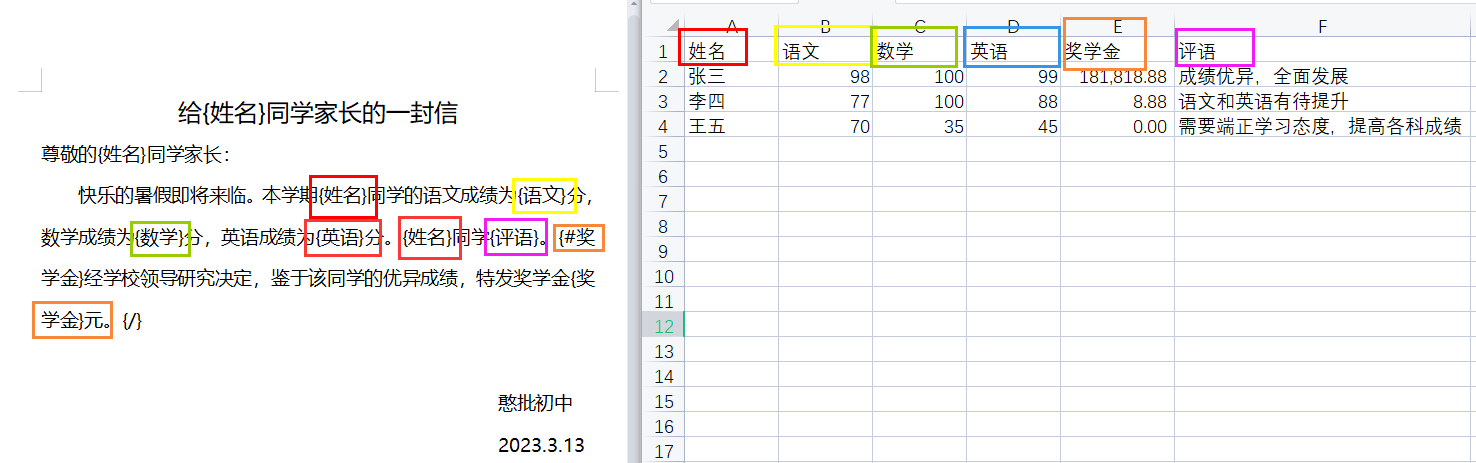
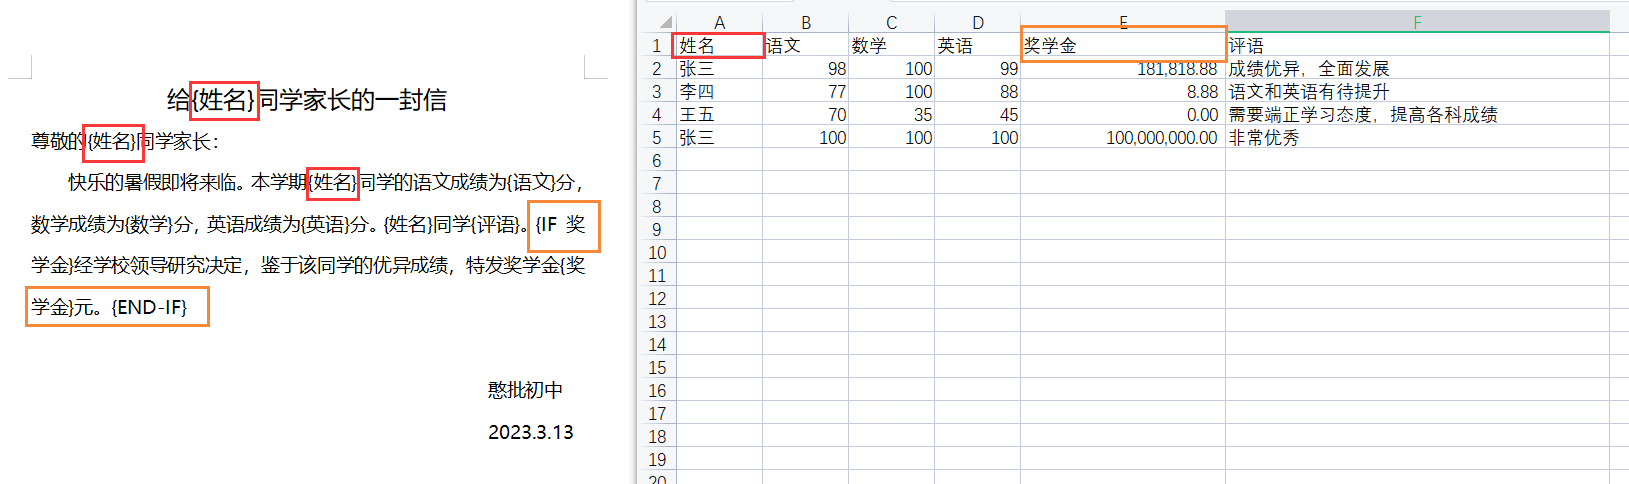
add

Changed region(s): [[0.0, 0.0, 1.0, 1.0], [0.2805, 0.7862, 0.3428, 0.8467]]

diff --git a/src/pages/file/merge/index.tsx b/src/pages/file/merge/index.tsx
@@ -1,50 +1,83 @@
 import "./index.scss";
 
 import { InboxOutlined } from "@ant-design/icons";
-import { Button, Card, Image, Input, Space, Upload } from "antd";
-import Templatemode from "docxtemplater";
+import {
+  Button,
+  Card,
+  Form,
+  Image,
+  Input,
+  message,
+  Modal,
+  Select,
+  Space,
+  Upload,
+} from "antd";
+import { createReport } from "docx-templates";
 import FileSaver from "file-saver";
 import JSZip from "jszip";
 import xlsx from "node-xlsx";
-import PizZip from "pizzip";
-import React, { useState } from "react";
+import React, { useEffect, useState } from "react";
 
 import mergeDemo from "@/assets/merge_demo.png";
-import { getFileType } from "@/tools";
+import { getFileType, RULES } from "@/tools";
+import { Rule } from "@/types";
+
+interface FormatRule extends Rule {
+  name: string;
+}
+
 function Merge() {
+  const [modalForm] = Form.useForm();
   const [word, setWord] = useState<ArrayBuffer>(new ArrayBuffer(0));
   const [excel, setExcel] = useState<any[]>([]);
   const [fileName, setFileName] = useState<string>("");
-
+  const [keys, setKeys] = useState<string[]>([]);
+  const [secureKeys, setSegueKeys] = useState<string[]>([]);
+  const [formatRule, setFormatRule] = useState<FormatRule[]>([]);
+  useEffect(() => {
+    const excelData = JSON.parse(
+      JSON.stringify(excel.length ? (excel[0].data as any) : [])
+    );
+    const keys: string[] = excelData.shift() || [];
+    setKeys(keys);
+  }, [excel]);
+  useEffect(() => {
+    setSegueKeys(keys.filter((k) => !formatRule.find((f) => f.name === k)));
+  }, [keys, formatRule]);
   function mergeFile() {
+    if (!excel.length || !word) return message.info("请先上传文件");
     const jsZip = new JSZip();
     const excelData = JSON.parse(JSON.stringify(excel[0].data || []));
     const keys: string[] = excelData.shift();
     const values: any[][] = excelData;
     const p: any[] = [];
     const nameMap: Record<string, number> = {};
+    const formatMap: Record<string, any> = {};
+    formatRule.forEach((f) => {
+      formatMap[f.name] = f.rule;
+    });
     values.forEach((v) => {
-      const zip = new PizZip(word);
-      const doc = new Templatemode(zip);
       const data: Record<string, any> = {};
       keys.forEach((k, index) => {
-        data[k] = v[index] || 0;
+        const val = v[index];
+        data[k] = formatMap[k] ? formatMap[k].rule(val) : val;
       });
-      doc.setData(data);
-      doc.render();
-      console.log(data);
+      const buf = createReport({
+        template: Buffer.from(word),
+        cmdDelimiter: ["{", "}"],
+        data,
+      });
       let name = fileName.replace(/{([\W\w]+)}/g, function (match, $1) {
         return data[$1];
       });
       if (nameMap[name] !== void 0) {
         nameMap[name]++;
         const [oName, fileType] = getFileType(name);
-        name = oName + `(${nameMap[name]})` + fileType;
+        name = `${oName}(${nameMap[name]})${fileType}`;
       } else {
         nameMap[name] = 0;
       }
-      console.log(nameMap);
-      const buf = doc.getZip()?.generate({ type: "blob" }) as Blob;
       p.push({ buf, name });
     });
     p.forEach((p) => {
@@ -56,6 +89,49 @@ function Merge() {
     jsZip.generateAsync({ type: "blob" }).then((content) => {
       // 生成二进制流
       FileSaver.saveAs(content, rename); // 利用file-saver保存文件  自定义文件名
+    });
+  }
+  function addRule() {
+    Modal.confirm({
+      icon: null,
+      title: "配置",
+      content: (
+        <Form form={modalForm}>
+          <Form.Item
+            label="标题"
+            name="name"
+            rules={[{ required: true, message: "请选择标题" }]}
+          >
+            <Select>
+              {secureKeys.map((s) => (
+                <Select.Option key={s}>{s}</Select.Option>
+              ))}
+            </Select>
+          </Form.Item>
+          <Form.Item
+            label="格式化配置"
+            name="ruleName"
+            rules={[{ required: true, message: "请选择格式化内容" }]}
+          >
+            <Select>
+              {RULES.map((s) => (
+                <Select.Option key={s.ruleName}>{s.ruleName}</Select.Option>
+              ))}
+            </Select>
+          </Form.Item>
+        </Form>
+      ),
+      onOk: () => {
+        return modalForm.validateFields().then((res) => {
+          const _f = [...formatRule];
+          _f.push({
+            name: res.name,
+            ruleName: res.ruleName,
+            rule: RULES.find((r) => r.ruleName === res.ruleName) as any,
+          });
+          setFormatRule(_f);
+        });
+      },
     });
   }
   return (
@@ -104,13 +180,24 @@ function Merge() {
           <p className="ant-upload-text">上传或者拖拽Excel数据</p>
         </Upload.Dragger>
       </div>
+      <Card title="格式化配置">
+        {formatRule.map((f) => {
+          return (
+            <p key={f.name}>
+              <span style={{ fontWeight: "bold" }}>{f.name}：</span>
+              <span>{f.ruleName}</span>
+            </p>
+          );
+        })}
+        <Button onClick={addRule} type="primary">
+          +
+        </Button>
+      </Card>
+      <p></p>
       <Card
         title="文件名替换规则"
-        size="small"
         extra={
           <Space>
-            <Button>获取当前Word文件名</Button>
-            <Button>清除</Button>
             <Button onClick={mergeFile} type="primary">
               生成文件
             </Button>
@@ -124,7 +211,7 @@ function Merge() {
         />
       </Card>
       <p></p>
-      <Card title="替换规则说明" size="small">
+      <Card title="替换规则说明">
         <Image src={mergeDemo} />
         <p style={{ fontWeight: "bold", fontSize: 18 }}>说明：</p>
         <p>
@@ -135,9 +222,20 @@ function Merge() {
         <p>条件判断：</p>
         <p>
           {
-            '{#条件}条件符合会展示的东西{/}。"{#条件}"是条件开始；"{/}"是条件结束'
+            '{IF 条件}条件符合会展示的东西{END-IF}。"{IF 条件}"是条件开始(IF和条件之间要有一个空格)；"{END-IF}"是条件结束'
           }
         </p>
+        <p>条件判断--并且：</p>
+        <p>
+          {
+            '{IF 条件1 && 条件2 && 条件3}条件符合会展示的东西{END-IF}。"&&"是and，并且的意思，满足所有条件'
+          }
+        </p>
+        <p>其他条件判断：</p>
+        <p>{"条件1||条件2 -> 条件1或者条件2"}</p>
+        <p>{"!条件 -> 非该条件"}</p>
+        <p>{"条件 > 10 -> 条件大于10的时候"}</p>
+        <p>{"条件 >= 10 -> 条件大于10的时候"}</p>
       </Card>
     </div>
   );

diff --git a/src/tools.ts b/src/tools.ts
@@ -1,7 +1,8 @@
+import dayjs from "dayjs";
 import { ipcRenderer } from "electron";
 import FileSaver from "file-saver";
 
-import { PDFTYPE } from "@/types";
+import { PDFTYPE, Rule } from "@/types";
 
 export function download(url = "", fileName = "未知文件") {
   const a = document.createElement("a");
@@ -75,3 +76,55 @@ export function getFileType(v: string): [string, string] {
   }
   return [v, ""];
 }
+
+export const RULES: Rule[] = [
+  {
+    ruleName: "保留整数",
+    rule: (val: number) => {
+      if (val) return val.toFixed(0);
+      return val;
+    },
+  },
+  {
+    ruleName: "保留一位小数",
+    rule: (val: number) => {
+      if (val) return val.toFixed(1);
+      return val;
+    },
+  },
+  {
+    ruleName: "保留两位小数",
+    rule: (val: number) => {
+      if (val) return val.toFixed(2);
+      return val;
+    },
+  },
+  {
+    ruleName: "日期：2023/03/01",
+    rule: (val: string) => {
+      if (val) return dayjs(val)?.format("YYYY/MM/DD");
+      return val;
+    },
+  },
+  {
+    ruleName: "日期：2023-03-01",
+    rule: (val: string) => {
+      if (val) return dayjs(val)?.format("YYYY-MM-DD");
+      return val;
+    },
+  },
+  {
+    ruleName: "日期：2023/03/01 13:30",
+    rule: (val: string) => {
+      if (val) return dayjs(val)?.format("YYYY/MM/DD HH:mm");
+      return val;
+    },
+  },
+  {
+    ruleName: "日期：2023-03-01 13:30",
+    rule: (val: string) => {
+      if (val) return dayjs(val)?.format("YYYY-MM-DD HH:mm");
+      return val;
+    },
+  },
+];

diff --git a/src/types/index.ts b/src/types/index.ts
@@ -6,3 +6,7 @@ export interface PDFTYPE {
   url?: string;
   loading?: boolean;
 }
+export interface Rule {
+  rule: (arg: any) => any;
+  ruleName: string;
+}
